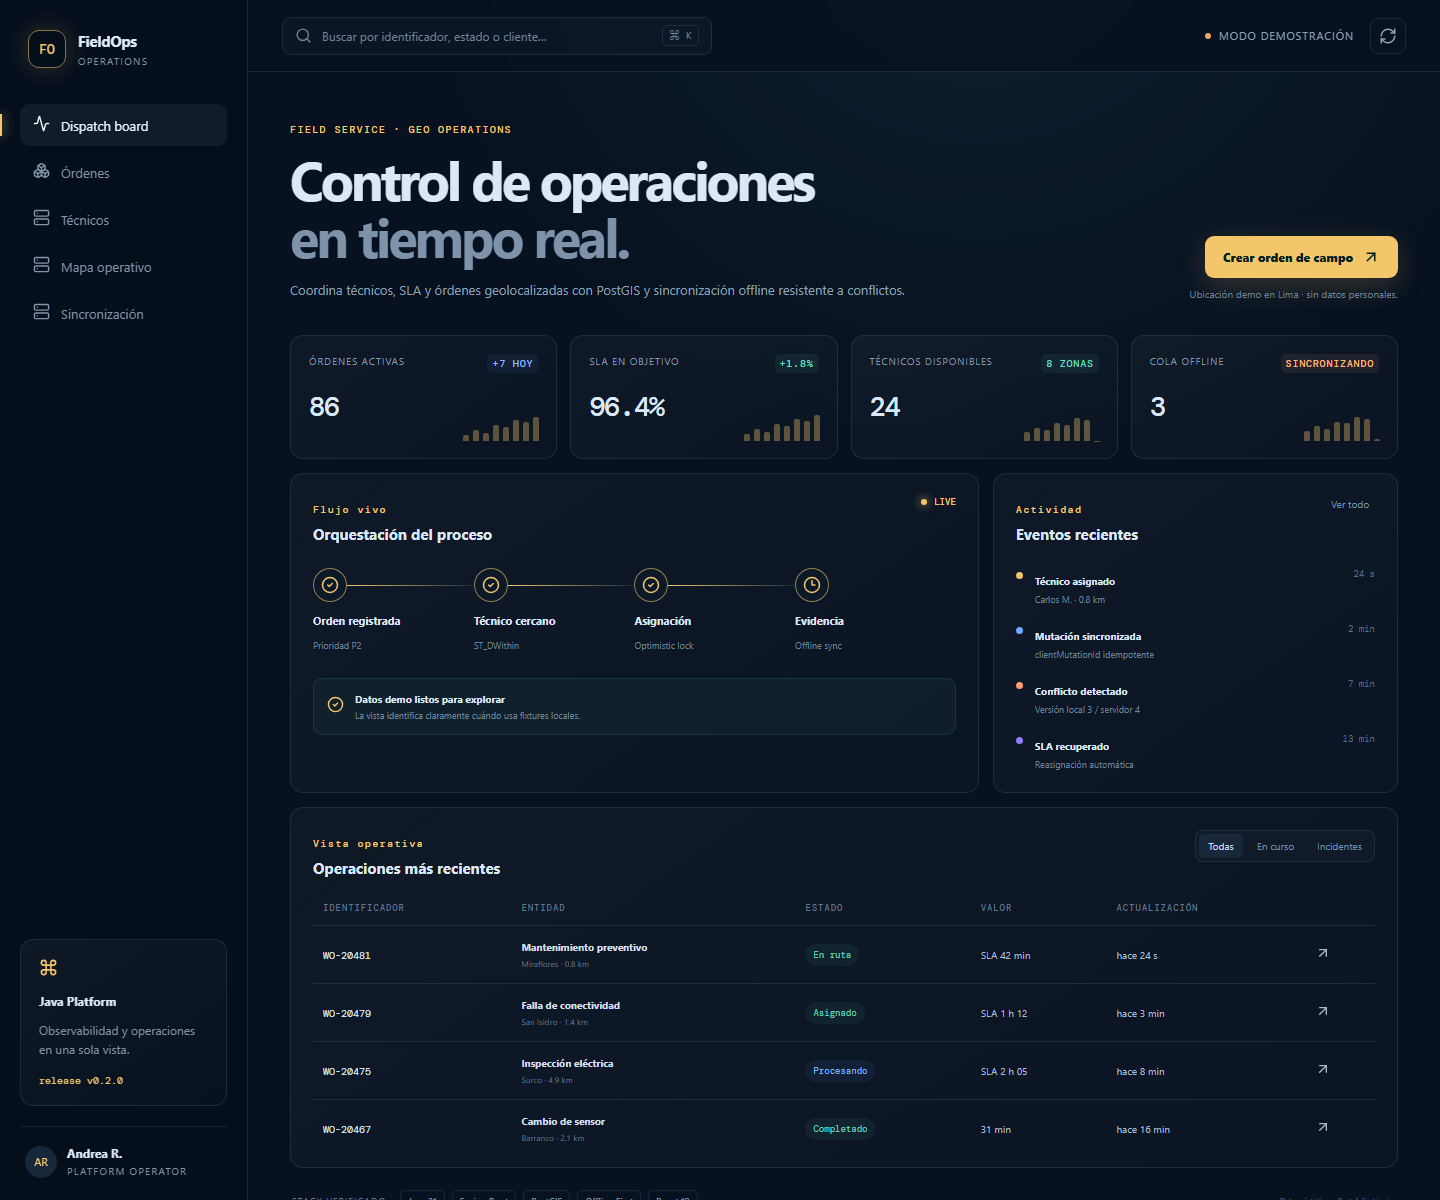
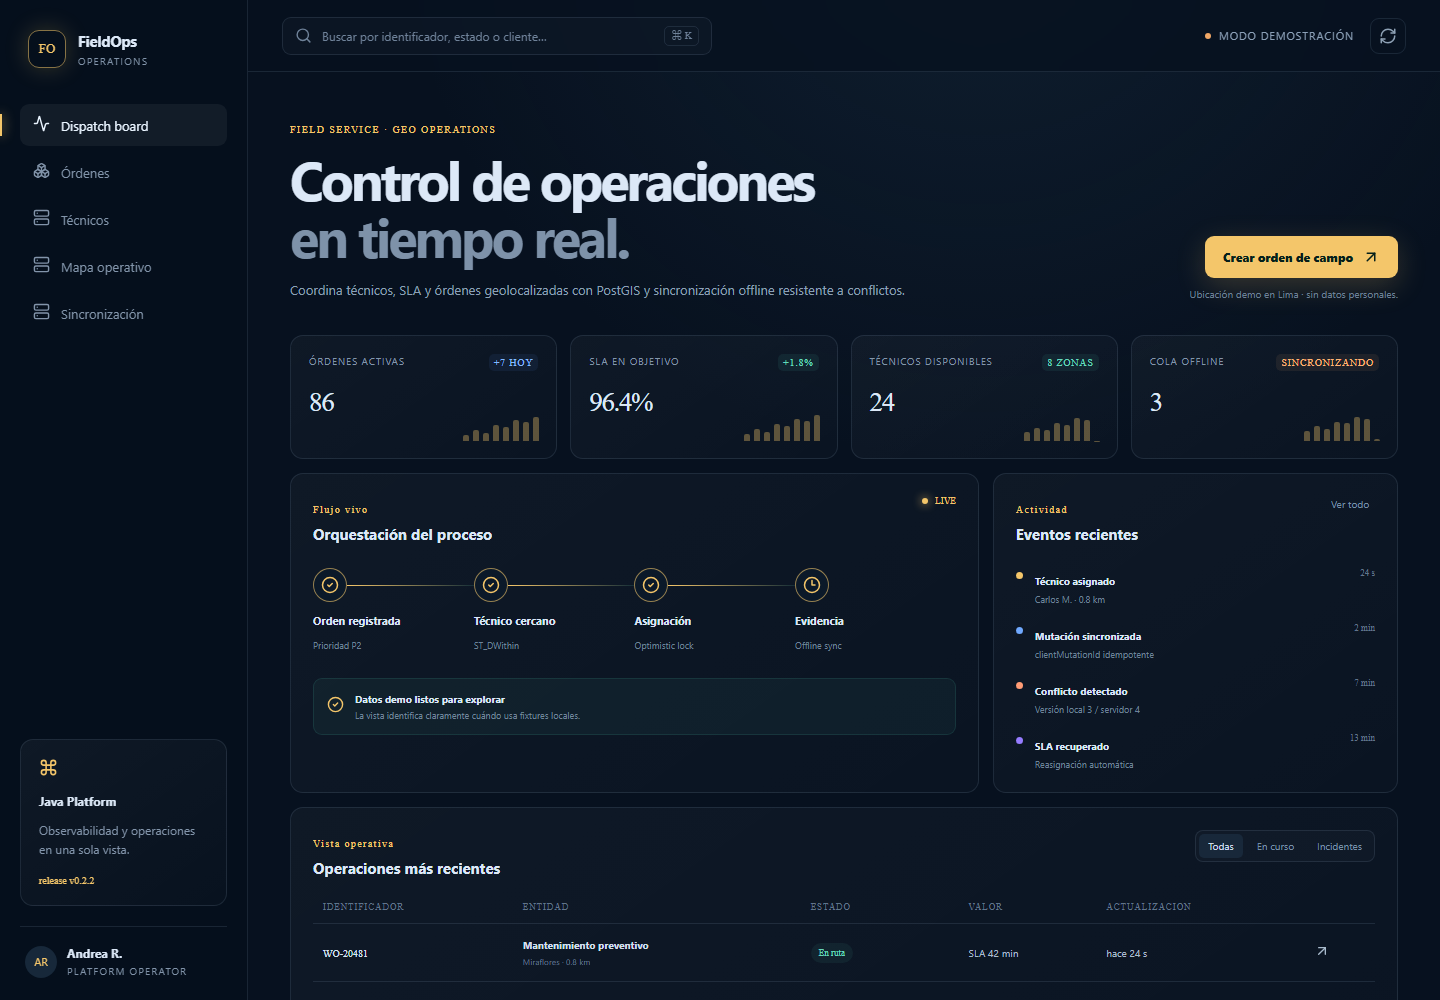
docs(portfolio): present project as complete case study

diff --git a/frontend/src/App.tsx b/frontend/src/App.tsx
@@ -18,7 +18,7 @@ export default function App() {
       <button className="close" aria-label="Cerrar menú" onClick={()=>setMobile(false)}><X/></button>
       <div className="brand"><span className="brand-mark">{project.initials}</span><div><b>{project.name}</b><small>Operations</small></div></div>
       <nav>{project.nav.map((item,index)=><button className={index===0?'active':''} key={item}><span>{index===0?<Activity size={17}/>:index===1?<Boxes size={17}/>:<Server size={17}/>}</span>{item}</button>)}</nav>
-      <div className="sidebar-card"><Command size={19}/><b>Java Platform</b><p>Observabilidad y operaciones en una sola vista.</p><span>release {project.release ?? 'v0.2.0'}</span></div>
+      <div className="sidebar-card"><Command size={19}/><b>Java Platform</b><p>Observabilidad y operaciones en una sola vista.</p><span>release {project.release ?? 'v0.2.2'}</span></div>
       <div className="profile"><span>AR</span><div><b>Andrea R.</b><small>Platform operator</small></div></div>
     </aside>
     <main>

diff --git a/README.md b/README.md
@@ -1,42 +1,200 @@
-# FieldOps Service Platform
+<p align="center">
+  <img src="docs/screenshots/dashboard-desktop.png" alt="Consola de despacho FieldOps" width="820">
+</p>
 
-## Objetivo del proyecto
+<h1 align="center">FieldOps Service Platform</h1>
 
-Demostrar el backend y la operación visual de una solución de servicio en
-campo: asignación geoespacial, SLA, técnicos y sincronización offline con
-resolución de conflictos. Combina Java 21, Spring Boot, PostGIS y una consola
-React responsiva orientada al despacho.
+<p align="center"><i>Órdenes de campo geolocalizadas, técnicos cercanos y
+sincronización offline con conflictos explícitos.</i></p>
 
-## Evidencia visual
+<p align="center">
+  <a href="https://github.com/danielyatacoblas/fieldops-service-platform/actions/workflows/ci.yml"><img src="https://github.com/danielyatacoblas/fieldops-service-platform/actions/workflows/ci.yml/badge.svg?branch=main" alt="CI"></a>
+  <img src="https://img.shields.io/badge/Java-21-ED8B00?logo=openjdk&logoColor=white" alt="Java 21">
+  <img src="https://img.shields.io/badge/Spring_Boot-4.1-6DB33F?logo=springboot&logoColor=white" alt="Spring Boot">
+  <img src="https://img.shields.io/badge/PostGIS-geoespacial-4169E1?logo=postgresql&logoColor=white" alt="PostGIS">
+  <img src="https://img.shields.io/badge/offline--first-conflict_aware-F4C66A" alt="Offline first">
+  <img src="https://img.shields.io/badge/React-19-61DAFB?logo=react&logoColor=black" alt="React 19">
+  <img src="https://img.shields.io/badge/pruebas-2_aprobadas-2EAD33" alt="2 pruebas">
+  <a href="LICENSE"><img src="https://img.shields.io/badge/licencia-MIT-blue" alt="MIT"></a>
+</p>
 
-![Consola de despacho FieldOps](docs/screenshots/dashboard-desktop.png)
+---
 
-| Arquitectura | Flujo funcional | GitFlow |
-|---|---|---|
-| ![Arquitectura](diagrams/rendered/architecture.svg) | ![Flujo](diagrams/rendered/flow.svg) | ![GitFlow](diagrams/rendered/gitflow.svg) |
+## Qué es
 
-Disponible también la [vista móvil](docs/screenshots/dashboard-mobile.png).
+En una operación de mantenimiento, el técnico más cercano puede quedarse sin
+señal, completar una visita y sincronizar cuando otro operador ya reasignó la
+orden. Ocultar ese conflicto produce pérdida de evidencia o estados imposibles.
 
-## Consola web
+**FieldOps modela la coordinación completa:** registra técnicos y ubicación,
+busca disponibilidad por distancia real con PostGIS, asigna órdenes y recibe
+mutaciones móviles idempotentes con versión esperada. Cuando el dispositivo
+trabajó sobre una versión antigua, la API responde un conflicto útil en vez de
+sobrescribir silenciosamente.
+
+---
+
+## Probar la consola sin backend
 
 ```bash
-cd frontend
+git clone https://github.com/danielyatacoblas/fieldops-service-platform.git
+cd fieldops-service-platform/frontend
 npm ci
 npm run dev
 ```
 
-La UI abre en `http://localhost:5175` y enruta la API hacia
-`http://localhost:8091`.
+Abrir `http://localhost:5175`. La consola usa ubicaciones, nombres y órdenes
+sintéticas y señala el modo demostración mientras la API no esté en `8091`.
 
-Java 21/Spring Boot dispatch backend with PostGIS proximity search and
-conflict-aware offline work-order synchronization.
+---
 
-## MVP
+## Funcionalidades
 
-- Technician location upsert and nearest-available search in meters.
-- Work-order creation, assignment and state transitions.
-- Idempotent mobile mutations using `clientMutationId`.
-- Optimistic version conflict responses for offline clients.
-- Flyway, PostGIS, Testcontainers, Prometheus and CI.
+1. Alta y actualización de técnicos con coordenadas geográficas.
+2. Búsqueda de técnicos disponibles dentro de un radio expresado en metros.
+3. Creación, asignación y transición de órdenes de trabajo.
+4. Mutaciones offline con `clientMutationId` idempotente.
+5. Control optimista mediante versión esperada.
+6. Respuesta de conflicto que entrega versión local y versión del servidor.
+7. Persistencia PostgreSQL/PostGIS con migraciones Flyway.
+8. Health, Prometheus, Docker, CI y consola de despacho responsiva.
 
-Run `docker compose up -d` and `./gradlew bootRun`. The API uses port `8091`.
+---
+
+## Capturas
+
+| Escritorio | Móvil |
+|---|---|
+| <img src="docs/screenshots/dashboard-desktop.png" alt="FieldOps escritorio" width="620"> | <img src="docs/screenshots/dashboard-mobile.png" alt="FieldOps móvil" width="230"> |
+
+---
+
+## Arquitectura y flujo
+
+<p align="center">
+  <img src="diagrams/rendered/architecture.svg" alt="Arquitectura FieldOps" width="820">
+</p>
+
+<p align="center">
+  <img src="diagrams/rendered/flow.svg" alt="Flujo de orden de campo" width="820">
+</p>
+
+Las fuentes Mermaid se versionan en [`diagrams/`](diagrams) y se regeneran
+con `pwsh scripts/render-diagrams.ps1`.
+
+---
+
+## Decisiones de diseño
+
+- **PostGIS calcula distancia**, evitando aproximaciones manuales sobre
+  latitud/longitud.
+- **Las unidades llegan como metros** desde la API y se convierten una sola vez
+  en la consulta geoespacial.
+- **`clientMutationId` identifica la intención móvil**, por lo que un retry de
+  red devuelve el resultado existente.
+- **La versión esperada no se corrige automáticamente:** un 409 hace visible
+  que alguien modificó la orden.
+- **El backend conserva la autoridad del workflow** aunque la aplicación móvil
+  pase horas desconectada.
+
+Los motivos completos están en [los ADR](docs/README.md).
+
+---
+
+## Instalación y demo completa
+
+Requiere Java 21, Docker y Node.js 24.
+
+```bash
+docker compose up -d
+./gradlew bootRun
+```
+
+La API escucha en `http://localhost:8091`.
+
+```bash
+curl -X PUT http://localhost:8091/api/v1/technicians/11111111-1111-1111-1111-111111111111 +  -H "Content-Type: application/json" +  -d '{"name":"Técnico Demo","latitude":-12.0464,"longitude":-77.0428,"available":true}'
+
+curl "http://localhost:8091/api/v1/technicians/nearby?latitude=-12.05&longitude=-77.04&radiusMeters=5000"
+
+curl -X POST http://localhost:8091/api/v1/work-orders +  -H "Content-Type: application/json" +  -d '{"summary":"Inspección preventiva","latitude":-12.0464,"longitude":-77.0428}'
+```
+
+---
+
+## API
+
+| Método | Ruta | Uso |
+|---|---|---|
+| `PUT` | `/api/v1/technicians/{id}` | Ubicación y disponibilidad |
+| `GET` | `/api/v1/technicians/nearby` | Búsqueda geoespacial |
+| `POST` | `/api/v1/work-orders` | Crear orden |
+| `GET` | `/api/v1/work-orders/{id}` | Consultar orden y versión |
+| `POST` | `/api/v1/sync/mutations` | Sincronizar cambios offline |
+
+---
+
+## Pruebas, comandos y stack
+
+```bash
+./gradlew clean test
+cd frontend && npm ci && npm test && npm run build
+```
+
+| Comando | Resultado |
+|---|---|
+| `docker compose up -d` | PostgreSQL con PostGIS |
+| `./gradlew bootRun` | API en el puerto 8091 |
+| `./gradlew clean test` | Integración geoespacial y offline |
+| `npm test` | Consola y modo degradado |
+| `pwsh scripts/verify.ps1` | Verificación integral |
+
+| Capa | Tecnología |
+|---|---|
+| Backend | Java 21, Spring Boot 4.1 |
+| Datos | PostgreSQL, PostGIS, Flyway, JPA |
+| Concurrencia | Optimistic locking e idempotencia |
+| Observabilidad | Actuator, Prometheus |
+| Frontend | React 19, TypeScript 7, Vite 8 |
+| Pruebas | Spring Boot Test, Testcontainers, Vitest |
+
+---
+
+## Flujo de trabajo con Git
+
+<p align="center">
+  <img src="diagrams/rendered/gitflow.svg" alt="GitFlow FieldOps" width="760">
+</p>
+
+`main` conserva releases etiquetadas; `develop` integra; `feature/*`,
+`docs/*`, `fix/*`, `hotfix/*` y `release/*` separan cada intención.
+Los merges son `--no-ff` y los commits siguen Conventional Commits.
+
+---
+
+## Estructura
+
+```text
+fieldops-service-platform/
+├── src/main/java/              # Dominio, persistencia y API
+├── src/main/resources/         # Configuración y SQL PostGIS
+├── src/test/                   # Integración con PostgreSQL real
+├── frontend/                   # Consola React
+├── docs/adr/                   # Proximidad y conflictos offline
+├── docs/screenshots/           # Evidencia desktop/móvil
+├── diagrams/                   # Arquitectura, flujo y GitFlow
+├── scripts/                    # Verificación y render
+├── compose.yaml                # PostGIS local
+└── .github/workflows/ci.yml    # CI backend + frontend
+```
+
+---
+
+## Autor
+
+[Daniel Yataco Blas](https://github.com/danielyatacoblas) — autor principal
+del diseño, implementación, pruebas y documentación.
+
+## Licencia
+
+[MIT](LICENSE) · Daniel Yataco Blas

diff --git a/docs/README.md b/docs/README.md
@@ -1,0 +1,10 @@
+# Documentación de FieldOps
+
+| Recurso | Contenido |
+|---|---|
+| [ADR 0001](adr/0001-postgis-proximity.md) | Búsqueda geoespacial y unidades |
+| [ADR 0002](adr/0002-offline-conflicts.md) | Idempotencia y conflictos offline |
+| [Capturas](screenshots) | Consola real en escritorio y móvil |
+| [Diagramas](../diagrams) | Arquitectura, orden de trabajo y GitFlow |
+
+Los diagramas se regeneran con `pwsh scripts/render-diagrams.ps1`.
